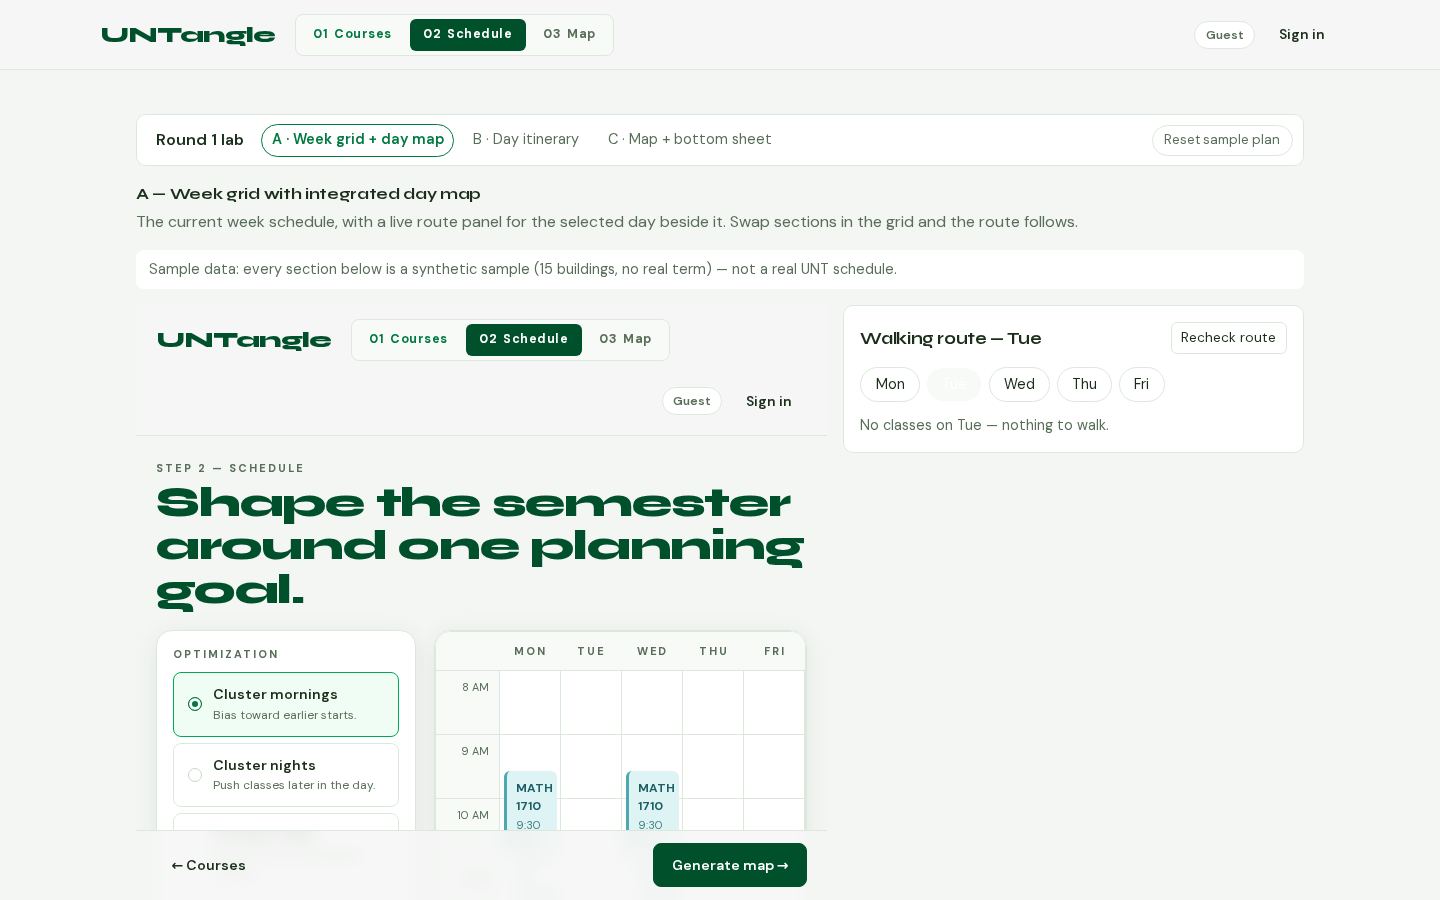
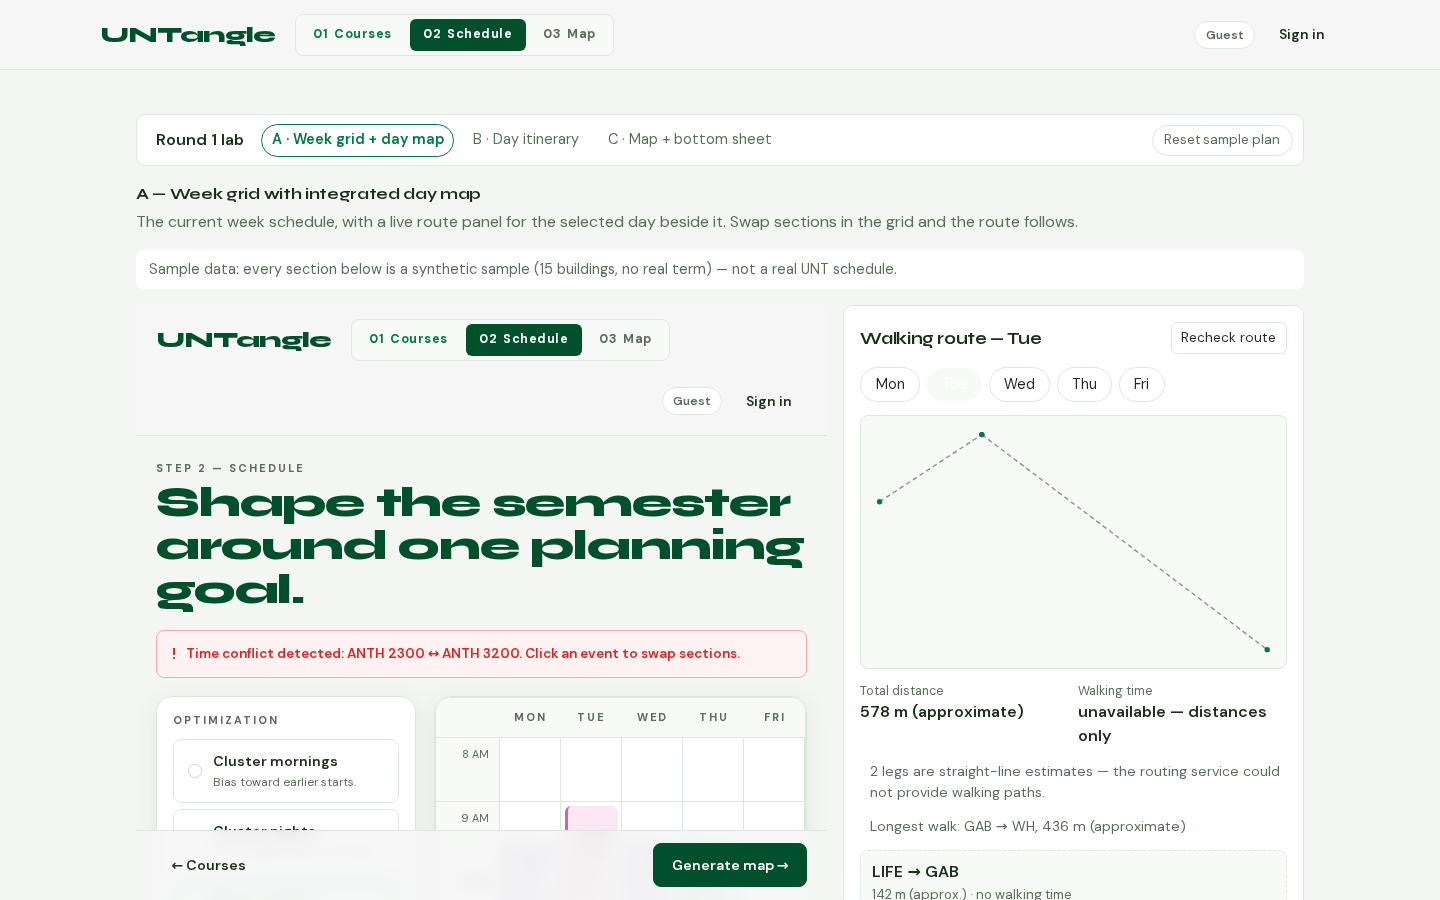
docs(lab): seeded rerun measurements and scripted task probes
Page-level rows re-measured with fixture-hydration and
Tuesday-content waits (the earlier desktop rows captured the
pre-bootstrap state and are corrected here). Adds the scripted
conflict-fix, Friday-free and sheet-state probes with committed
results, refreshed screenshots and axe results after the active-tab
contrast fix (fe1efc8), verified via live computed-style probe.
v3-run.md renamed to run-notes.md to stop misnumbering the runs.

diff --git a/docs/lab/evidence/run-notes.md b/docs/lab/evidence/run-notes.md
@@ -1,0 +1,25 @@
+# Round-one comparison run (seeded rerun)
+
+Measured against next dev on port 3317, no ORS key (straight-line fallback), reduced-motion context. Each page waits for fixture hydration (.cal-event / .lab-itin__card / .lab-sheet) before switching to Tuesday, and for the Tuesday content selector before stopping the interaction clock, so page-level rows reflect the seeded guest plan rather than the transient pre-bootstrap state. Scripted-task rows ran in the same session at 1440x900.
+
+## Page-level measurements (Tue)
+
+| Direction | Viewport | Seeded | Tue content rendered | Tue switch (ms) | /api/map/route calls | Longest-walk text | axe violations |
+|---|---|---|---|---|---|---|---|
+| a | desktop | yes | yes | 1531 | 2 | 1 | color-contrast(5), landmark-main-is-top-level(1), landmark-no-duplicate-main(1), landmark-unique(2) |
+| b | desktop | yes | yes | 1415 | 0 | 1 | color-contrast(1), heading-order(1) |
+| c | desktop | yes | yes | 1406 | 0 | 1 | color-contrast(1), heading-order(1) |
+| a | mobile | yes | yes | 1354 | 0 | 1 | color-contrast(3), landmark-main-is-top-level(1), landmark-no-duplicate-main(1), landmark-unique(2) |
+| b | mobile | yes | yes | 1490 | 0 | 1 | color-contrast(1), heading-order(1) |
+| c | mobile | yes | yes | 1402 | 0 | 1 | color-contrast(1), heading-order(1) |
+| b | desktop | NO | NO | - | - | - | none |
+| c | desktop | NO | NO | - | - | - | none |
+| b | desktop | NO | NO | - | - | - | none |
+| c | desktop | NO | NO | - | - | - | none |
+
+## Scripted tasks (desktop)
+
+- b-tuesday-conflict-fix: OK — conflict badges 2 → 0 — picked: anth-3200-002 · Tue 14:30-15:50 · Thu 14:30-15:50no conflicts — 1186 ms
+- c-tuesday-conflict-fix: OK — conflict badges 2 → 0 — picked: anth-3200-002 · Tue 14:30-15:50 · Thu 14:30-15:50no conflicts — 1141 ms
+- b-friday-free: OK — Fri cards 1 → 0, Tue badges after 2 — picked: anth-1150-001 · Mon 14:30-15:50 · Wed 14:30-15:501 conflict
+- c-sheet-states: OK — sheet peek(false) → 1st half(true) → 2nd full(true) → Esc peek(false)
